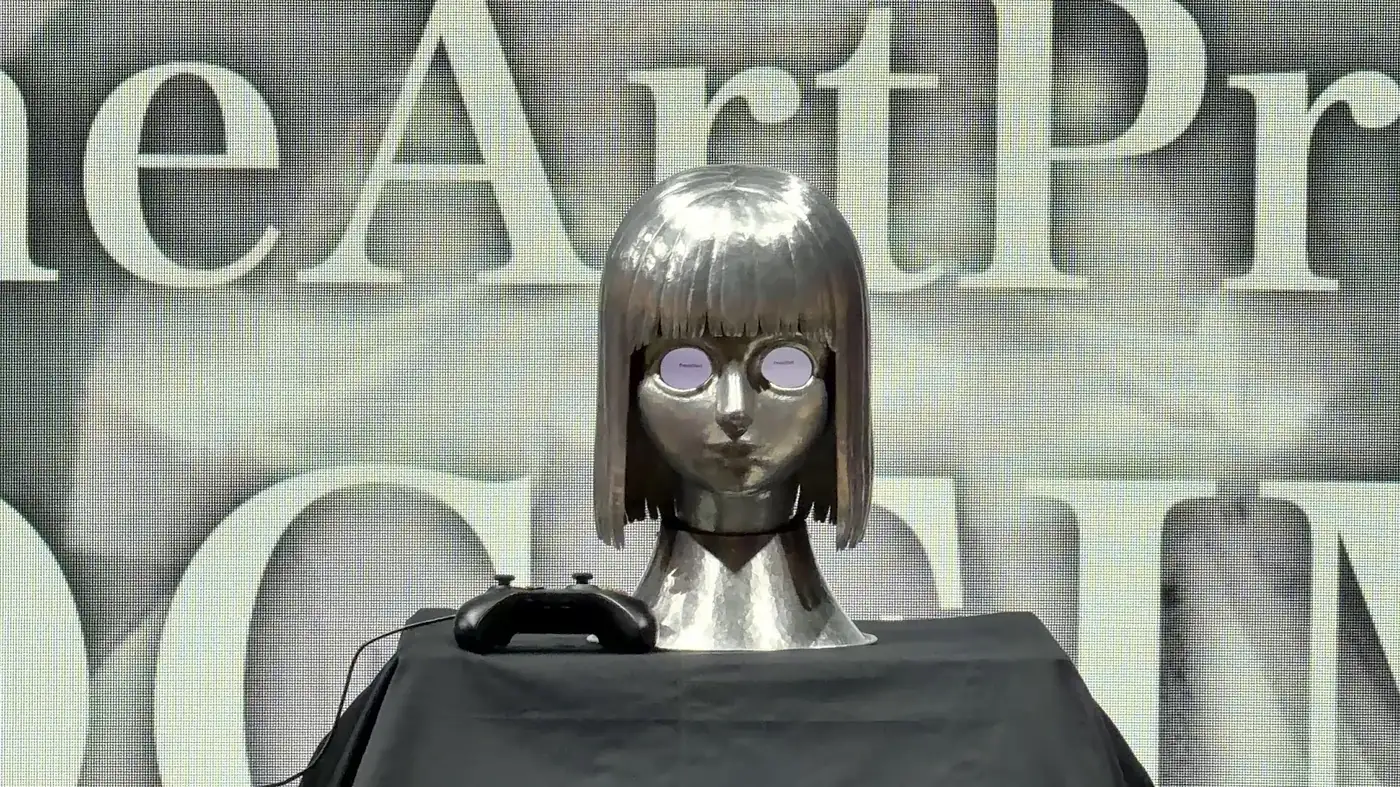
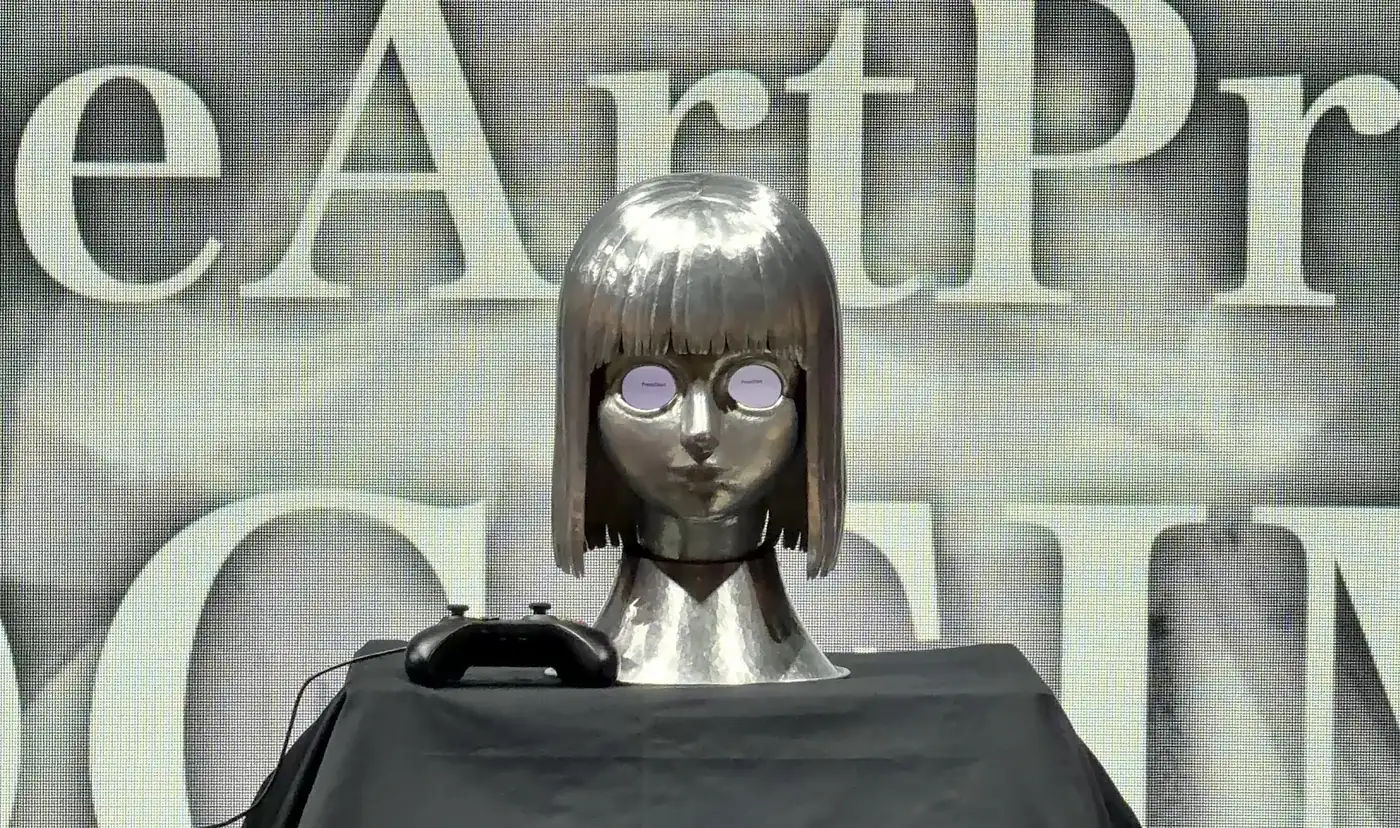
Home catch band: Yuki centred (recropped), background darker, words one size up
Claude-Session: https://claude.ai/code/session_01D5cqqnM1HMFpMXb8u4Sadp

diff --git a/assets/css/style.css b/assets/css/style.css
@@ -675,15 +675,16 @@ html:is([lang="en"], [lang="fr"], [lang="it"], [lang="es"], [lang="de"]) .concep
 .catch-band__bg {
   position: absolute; inset: 0; z-index: -1;
   background-size: cover; background-position: 50% 35%;
-  opacity: 0.32; filter: grayscale(0.3);
+  opacity: 0.22; filter: grayscale(0.3);
   -webkit-mask-image: radial-gradient(ellipse 85% 75% at 50% 50%, #000 35%, transparent 100%);
   mask-image: radial-gradient(ellipse 85% 75% at 50% 50%, #000 35%, transparent 100%);
 }
 .catch-band__inner::before { content: ""; display: block; width: 40px; height: 1px; margin: 0 auto 28px; background: var(--accent); }
-.catch-band__text { margin: 0; font-family: var(--f-head); font-weight: 400; font-size: min(26px, 6.6vw); line-height: 1.75; letter-spacing: 0.16em; color: var(--text); }
-html:is([lang="en"], [lang="fr"], [lang="it"], [lang="es"], [lang="de"]) .catch-band__text { font-family: var(--f-logo); font-size: clamp(30px, 7.4vw, 60px); line-height: 1.25; letter-spacing: 0.02em; max-width: 13em; margin-inline: auto; }
+/* phones: one size up, the tracking a little narrower so “イベントや展示会でしか” still fits on one line down to 360px */
+.catch-band__text { margin: 0; font-family: var(--f-head); font-weight: 400; font-size: min(29px, 7.4vw); line-height: 1.7; letter-spacing: 0.1em; color: var(--text); }
+html:is([lang="en"], [lang="fr"], [lang="it"], [lang="es"], [lang="de"]) .catch-band__text { font-family: var(--f-logo); font-size: clamp(34px, 8.6vw, 72px); line-height: 1.2; letter-spacing: 0.02em; max-width: 13em; margin-inline: auto; }
 @media (min-width: 900px) {
-  .catch-band__text { font-size: clamp(34px, 3.6vw, 52px); letter-spacing: 0.18em; }
+  .catch-band__text { font-size: clamp(40px, 4.4vw, 62px); letter-spacing: 0.16em; }
 }
 
 @media (min-width: 900px) {

diff --git a/index.html b/index.html
@@ -30,7 +30,7 @@
   <link rel="preconnect" href="https://fonts.googleapis.com">
   <link rel="preconnect" href="https://fonts.gstatic.com" crossorigin>
   <link href="https://fonts.googleapis.com/css2?family=Cormorant+Garamond:ital,wght@0,400;0,500;1,400&family=Courier+Prime:wght@400;700&family=Noto+Sans+JP:wght@400;500&family=Noto+Serif+JP:wght@400;500&display=swap" rel="stylesheet">
-  <link rel="stylesheet" href="assets/css/style.css?v=20261010c">
+  <link rel="stylesheet" href="assets/css/style.css?v=20261010d">
   <script src="assets/js/budoux-ja.js" defer></script>
   <script src="assets/js/main.js?v=20261010c" defer></script>
   <script type="application/ld+json">
@@ -114,7 +114,7 @@
 
   <!-- ============ CATCH: a band of its own between the hero and About ============ -->
   <section class="catch-band" id="project">
-    <div class="catch-band__bg" style="background-image: url('assets/img/yuki/ex-404-04.webp')" aria-hidden="true"></div>
+    <div class="catch-band__bg" style="background-image: url('assets/img/yuki/ex-404-04.webp?v=20261010')" aria-hidden="true"></div>
     <div class="catch-band__inner reveal">
       <p class="catch-band__text"><span lang="ja">イベントや展示会でしか<br>出会えないゲーム</span><span lang="en">A game you can only meet at events and exhibitions</span></p>
     </div>

diff --git a/news/2026-10-03-website.html b/news/2026-10-03-website.html
@@ -28,7 +28,7 @@
   <link rel="preconnect" href="https://fonts.googleapis.com">
   <link rel="preconnect" href="https://fonts.gstatic.com" crossorigin>
   <link href="https://fonts.googleapis.com/css2?family=Cormorant+Garamond:ital,wght@0,400;0,500;1,400&family=Courier+Prime:wght@400;700&family=Noto+Sans+JP:wght@400;500&family=Noto+Serif+JP:wght@400;500&display=swap" rel="stylesheet">
-  <link rel="stylesheet" href="../assets/css/style.css?v=20261010c">
+  <link rel="stylesheet" href="../assets/css/style.css?v=20261010d">
   <script src="../assets/js/budoux-ja.js" defer></script>
   <script src="../assets/js/main.js?v=20261010c" defer></script>
   <script type="application/ld+json">

diff --git a/news/2026-10-04-anima-ludens.html b/news/2026-10-04-anima-ludens.html
@@ -28,7 +28,7 @@
   <link rel="preconnect" href="https://fonts.googleapis.com">
   <link rel="preconnect" href="https://fonts.gstatic.com" crossorigin>
   <link href="https://fonts.googleapis.com/css2?family=Cormorant+Garamond:ital,wght@0,400;0,500;1,400&family=Courier+Prime:wght@400;700&family=Noto+Sans+JP:wght@400;500&family=Noto+Serif+JP:wght@400;500&display=swap" rel="stylesheet">
-  <link rel="stylesheet" href="../assets/css/style.css?v=20261010c">
+  <link rel="stylesheet" href="../assets/css/style.css?v=20261010d">
   <script src="../assets/js/budoux-ja.js" defer></script>
   <script src="../assets/js/main.js?v=20261010c" defer></script>
   <script type="application/ld+json">

diff --git a/news/2026-10-05-english-voice.html b/news/2026-10-05-english-voice.html
@@ -28,7 +28,7 @@
   <link rel="preconnect" href="https://fonts.googleapis.com">
   <link rel="preconnect" href="https://fonts.gstatic.com" crossorigin>
   <link href="https://fonts.googleapis.com/css2?family=Cormorant+Garamond:ital,wght@0,400;0,500;1,400&family=Courier+Prime:wght@400;700&family=Noto+Sans+JP:wght@400;500&family=Noto+Serif+JP:wght@400;500&display=swap" rel="stylesheet">
-  <link rel="stylesheet" href="../assets/css/style.css?v=20261010c">
+  <link rel="stylesheet" href="../assets/css/style.css?v=20261010d">
   <script src="../assets/js/budoux-ja.js" defer></script>
   <script src="../assets/js/main.js?v=20261010c" defer></script>
   <script type="application/ld+json">

diff --git a/news/2026-10-06-japanese-voice.html b/news/2026-10-06-japanese-voice.html
@@ -28,7 +28,7 @@
   <link rel="preconnect" href="https://fonts.googleapis.com">
   <link rel="preconnect" href="https://fonts.gstatic.com" crossorigin>
   <link href="https://fonts.googleapis.com/css2?family=Cormorant+Garamond:ital,wght@0,400;0,500;1,400&family=Courier+Prime:wght@400;700&family=Noto+Sans+JP:wght@400;500&family=Noto+Serif+JP:wght@400;500&display=swap" rel="stylesheet">
-  <link rel="stylesheet" href="../assets/css/style.css?v=20261010c">
+  <link rel="stylesheet" href="../assets/css/style.css?v=20261010d">
   <script src="../assets/js/budoux-ja.js" defer></script>
   <script src="../assets/js/main.js?v=20261010c" defer></script>
   <script type="application/ld+json">

diff --git a/news/2026-10-07-creator-countdown-shiomi-1e6200.html b/news/2026-10-07-creator-countdown-shiomi-1e6200.html
@@ -28,7 +28,7 @@
   <link rel="preconnect" href="https://fonts.googleapis.com">
   <link rel="preconnect" href="https://fonts.gstatic.com" crossorigin>
   <link href="https://fonts.googleapis.com/css2?family=Cormorant+Garamond:ital,wght@0,400;0,500;1,400&family=Courier+Prime:wght@400;700&family=Noto+Sans+JP:wght@400;500&family=Noto+Serif+JP:wght@400;500&display=swap" rel="stylesheet">
-  <link rel="stylesheet" href="../assets/css/style.css?v=20261010c">
+  <link rel="stylesheet" href="../assets/css/style.css?v=20261010d">
   <script src="../assets/js/budoux-ja.js" defer></script>
   <script src="../assets/js/main.js?v=20261010c" defer></script>
   <script type="application/ld+json">

diff --git a/news/2026-10-08-creator-countdown-kaneko-91ced3.html b/news/2026-10-08-creator-countdown-kaneko-91ced3.html
@@ -28,7 +28,7 @@
   <link rel="preconnect" href="https://fonts.googleapis.com">
   <link rel="preconnect" href="https://fonts.gstatic.com" crossorigin>
   <link href="https://fonts.googleapis.com/css2?family=Cormorant+Garamond:ital,wght@0,400;0,500;1,400&family=Courier+Prime:wght@400;700&family=Noto+Sans+JP:wght@400;500&family=Noto+Serif+JP:wght@400;500&display=swap" rel="stylesheet">
-  <link rel="stylesheet" href="../assets/css/style.css?v=20261010c">
+  <link rel="stylesheet" href="../assets/css/style.css?v=20261010d">
   <script src="../assets/js/budoux-ja.js" defer></script>
   <script src="../assets/js/main.js?v=20261010c" defer></script>
   <script type="application/ld+json">

diff --git a/news/2026-10-09-creator-countdown-kamiena-dd85e2.html b/news/2026-10-09-creator-countdown-kamiena-dd85e2.html
@@ -28,7 +28,7 @@
   <link rel="preconnect" href="https://fonts.googleapis.com">
   <link rel="preconnect" href="https://fonts.gstatic.com" crossorigin>
   <link href="https://fonts.googleapis.com/css2?family=Cormorant+Garamond:ital,wght@0,400;0,500;1,400&family=Courier+Prime:wght@400;700&family=Noto+Sans+JP:wght@400;500&family=Noto+Serif+JP:wght@400;500&display=swap" rel="stylesheet">
-  <link rel="stylesheet" href="../assets/css/style.css?v=20261010c">
+  <link rel="stylesheet" href="../assets/css/style.css?v=20261010d">
   <script src="../assets/js/budoux-ja.js" defer></script>
   <script src="../assets/js/main.js?v=20261010c" defer></script>
   <script type="application/ld+json">

diff --git a/works/kagane.html b/works/kagane.html
@@ -29,7 +29,7 @@
   <link rel="preconnect" href="https://fonts.googleapis.com">
   <link rel="preconnect" href="https://fonts.gstatic.com" crossorigin>
   <link href="https://fonts.googleapis.com/css2?family=Cormorant+Garamond:ital,wght@0,400;0,500;1,400&family=Courier+Prime:wght@400;700&family=Noto+Sans+JP:wght@400;500&family=Noto+Serif+JP:wght@400;500&display=swap" rel="stylesheet">
-  <link rel="stylesheet" href="../assets/css/style.css?v=20261010c">
+  <link rel="stylesheet" href="../assets/css/style.css?v=20261010d">
   <script src="../assets/js/budoux-ja.js" defer></script>
   <script src="../assets/js/main.js?v=20261010c" defer></script>
   <script type="application/ld+json">

diff --git a/works/yuki.html b/works/yuki.html
@@ -29,7 +29,7 @@
   <link rel="preconnect" href="https://fonts.googleapis.com">
   <link rel="preconnect" href="https://fonts.gstatic.com" crossorigin>
   <link href="https://fonts.googleapis.com/css2?family=Cormorant+Garamond:ital,wght@0,400;0,500;1,400&family=Courier+Prime:wght@400;700&family=Noto+Sans+JP:wght@400;500&family=Noto+Serif+JP:wght@400;500&display=swap" rel="stylesheet">
-  <link rel="stylesheet" href="../assets/css/style.css?v=20261010c">
+  <link rel="stylesheet" href="../assets/css/style.css?v=20261010d">
   <script src="../assets/js/budoux-ja.js" defer></script>
   <script src="../assets/js/main.js?v=20261010c" defer></script>
   <script type="application/ld+json">

diff --git a/news/index.html b/news/index.html
@@ -28,7 +28,7 @@
   <link rel="preconnect" href="https://fonts.googleapis.com">
   <link rel="preconnect" href="https://fonts.gstatic.com" crossorigin>
   <link href="https://fonts.googleapis.com/css2?family=Cormorant+Garamond:ital,wght@0,400;0,500;1,400&family=Courier+Prime:wght@400;700&family=Noto+Sans+JP:wght@400;500&family=Noto+Serif+JP:wght@400;500&display=swap" rel="stylesheet">
-  <link rel="stylesheet" href="../assets/css/style.css?v=20261010c">
+  <link rel="stylesheet" href="../assets/css/style.css?v=20261010d">
   <script src="../assets/js/budoux-ja.js" defer></script>
   <script src="../assets/js/main.js?v=20261010c" defer></script>
 </head>
